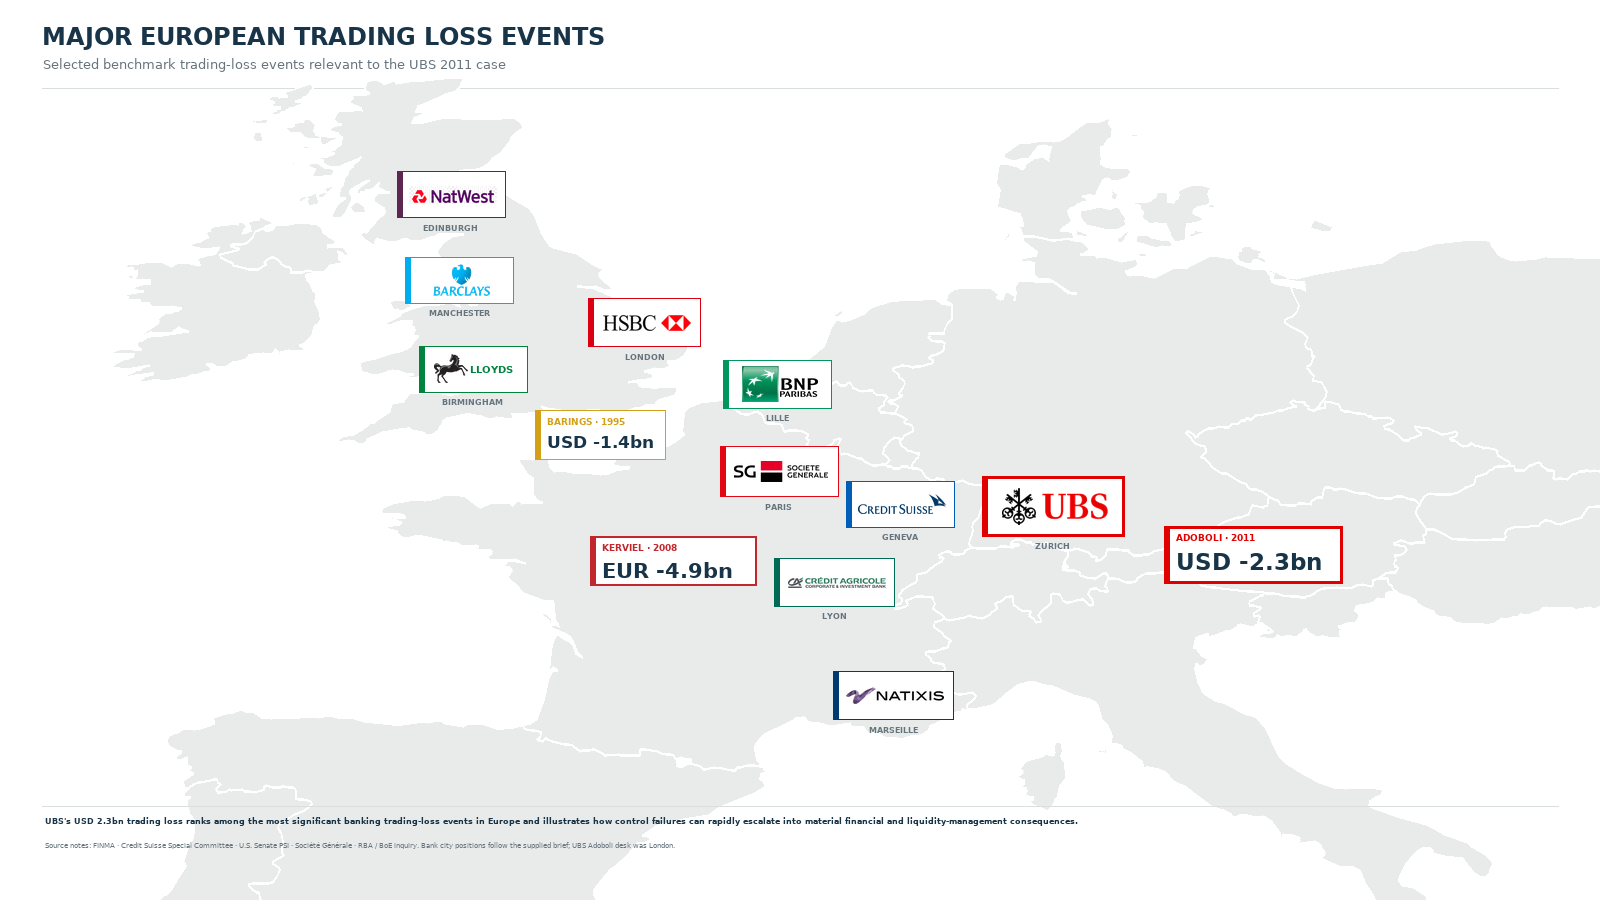
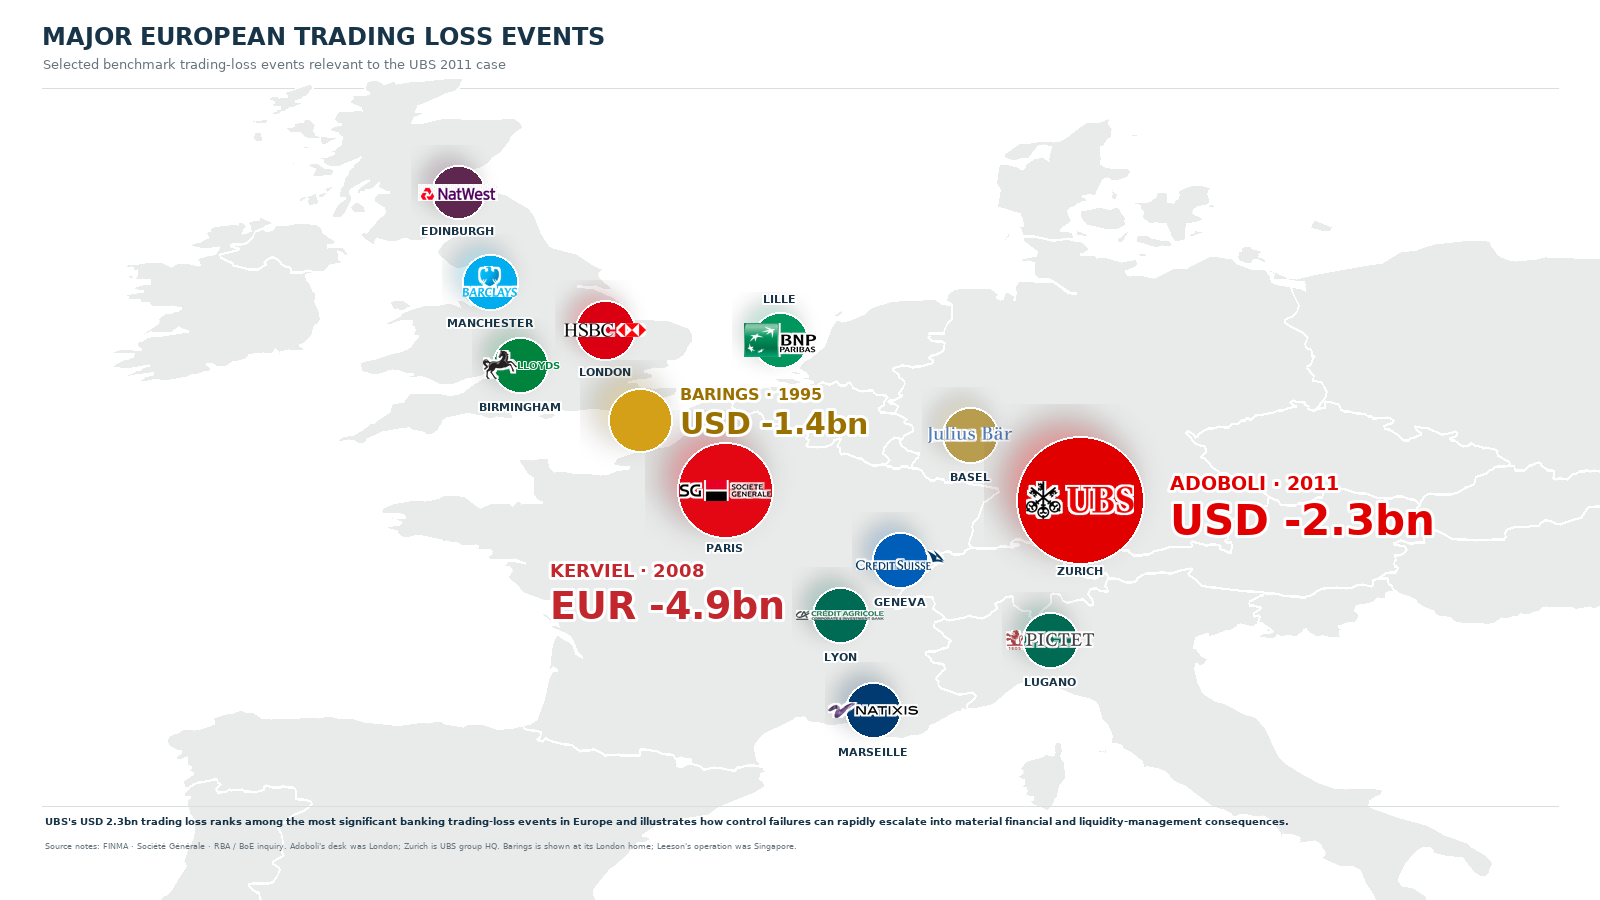
Refresh trading loss infographic with 12 bank markers

diff --git a/documents/build_ubs_event_context_map.py b/documents/build_ubs_event_context_map.py
@@ -1,6 +1,6 @@
 from pathlib import Path
 import json
-from PIL import Image, ImageDraw, ImageFont
+from PIL import Image, ImageDraw, ImageFont, ImageFilter, ImageColor
 
 ROOT = Path(__file__).resolve().parent
 ASSETS = ROOT / 'assets'
@@ -25,8 +25,10 @@ def font(size, bold=False, serif=False):
         _fonts[key] = ImageFont.truetype(path, size)
     return _fonts[key]
 
-def text(draw, xy, value, size, color=INK, bold=False, anchor=None, serif=False):
-    draw.text(xy, value, font=font(size, bold, serif), fill=color, anchor=anchor)
+def text(draw, xy, value, size, color=INK, bold=False, anchor=None, serif=False,
+         stroke_width=0, stroke_fill=PAPER):
+    draw.text(xy, value, font=font(size, bold, serif), fill=color, anchor=anchor,
+              stroke_width=stroke_width, stroke_fill=stroke_fill)
 
 def load_logo(filename, remove_light_bg=False):
     image = Image.open(ASSETS / filename).convert('RGBA')
@@ -44,20 +46,28 @@ def fit(image, max_width, max_height):
     scale = min(max_width / image.width, max_height / image.height)
     return image.resize((max(1, round(image.width * scale)), max(1, round(image.height * scale))), Image.Resampling.LANCZOS)
 
-def paste_logo(canvas, logo, center, max_size):
+def paste_logo_floating(canvas, logo, center, max_size, halo=True):
+    """Transparent wordmark directly over its city marker; white edge is only a logo keyline."""
     mark = fit(logo, *max_size)
-    canvas.alpha_composite(mark, (round(center[0] - mark.width / 2), round(center[1] - mark.height / 2)))
+    x = round(center[0] - mark.width / 2)
+    y = round(center[1] - mark.height / 2)
+    if halo:
+        alpha = mark.getchannel('A').filter(ImageFilter.MaxFilter(5))
+        keyline = Image.new('RGBA', mark.size, (255, 255, 255, 0))
+        keyline.putalpha(alpha)
+        canvas.alpha_composite(keyline, (x, y))
+    canvas.alpha_composite(mark, (x, y))
     return mark.size
 
 im = Image.new('RGBA', (W, H), PAPER)
 d = ImageDraw.Draw(im)
 
-# Compact title area, leaving the map as the main visual.
+# Compact title area; the European map and city marks remain dominant.
 text(d, (42, 22), 'MAJOR EUROPEAN TRADING LOSS EVENTS', 24, INK, bold=True)
 text(d, (43, 56), 'Selected benchmark trading-loss events relevant to the UBS 2011 case', 13, MUTED)
 d.line((42, 88, 1558, 88), fill=GRID, width=1)
 
-# Light-grey Europe base, with unobtrusive national borders.
+# Light-grey Europe base, with discreet national borders.
 mx, my, mw, mh = 35, 105, 1530, 680
 lon0, lon1 = -12.0, 20.0
 lat0, lat1 = 42.0, 58.0
@@ -85,7 +95,7 @@ def draw_geometry(geometry):
 for feature in geo['features']:
     draw_geometry(feature['geometry'])
 
-# Ten bank identities, each used once and assigned to the requested city.
+# Bank logos, one per requested city (12 total).
 logos = {
     'HSBC': load_logo('hsbc-logo.png', True),
     'BARCLAYS': load_logo('barclays-logo.jpg', True),
@@ -97,63 +107,77 @@ logos = {
     'NATIXIS': load_logo('natixis-logo.png'),
     'UBS': load_logo('ubs-logo.png', True),
     'CS': load_logo('credit-suisse-logo.png'),
+    'JULIUS': load_logo('julius-baer-logo.png'),
+    'PICTET': load_logo('pictet-logo.png'),
 }
 
-# Small square markers and clean logo plaques echo a football map, without circular pins.
-def city_logo(key, city, lon, lat, color, offset, box_size=(116, 48), logo_size=(96, 30), halo=False, lloyds=False):
-    global d
-    x0, y0 = xy(lon, lat)
-    cx, cy = x0 + offset[0], y0 + offset[1]
-    w, h = box_size
-    outline = '#E00000' if halo else color
-    width = 3 if halo else 1
-    d.rectangle((cx - w/2, cy - h/2, cx + w/2, cy + h/2), fill=PAPER, outline=outline, width=width)
-    d.rectangle((cx - w/2, cy - h/2, cx - w/2 + 5, cy + h/2), fill=color)
-    if lloyds:
-        paste_logo(im, logos[key], (cx - 22, cy - 1), (34, 34))
-        d = ImageDraw.Draw(im)
-        text(d, (cx + 19, cy), 'LLOYDS', 10, color, bold=True, anchor='mm')
-    else:
-        paste_logo(im, logos[key], (cx + 2, cy), logo_size)
+# Draw a soft coloured glow, then the solid city circle. No white logo cards or rectangular badges.
+def city_circle(center, radius, color, glow=8, strength=70):
+    rgb = ImageColor.getrgb(color)
+    pad = radius + glow * 2
+    size = pad * 2
+    halo = Image.new('RGBA', (size, size), (0, 0, 0, 0))
+    hd = ImageDraw.Draw(halo)
+    hd.ellipse((glow, glow, glow + radius * 2, glow + radius * 2), fill=(*rgb, strength))
+    halo = halo.filter(ImageFilter.GaussianBlur(glow))
+    im.alpha_composite(halo, (round(center[0] - pad), round(center[1] - pad)))
     d = ImageDraw.Draw(im)
-    text(d, (cx, cy + h/2 + 5), city.upper(), 8, MUTED, bold=True, anchor='ma')
-    return (cx, cy, w, h)
+    d.ellipse((center[0] - radius, center[1] - radius,
+               center[0] + radius, center[1] + radius), fill=color, outline=PAPER, width=2)
+    return d
 
-# United Kingdom. City placements are deliberately staggered for clear spacing.
-city_logo('NATWEST', 'Edinburgh', -3.1883, 55.9533, '#5E2750', (-5, 3), (108, 46), (88, 25))
-city_logo('BARCLAYS', 'Manchester', -2.2426, 53.4808, '#00AEEF', (-42, -17), (108, 46), (68, 32))
-city_logo('LLOYDS', 'Birmingham', -1.8904, 52.4862, '#00843D', (-45, 30), (108, 46), lloyds=True)
-city_logo('HSBC', 'London', -0.1276, 51.5072, '#DB0011', (42, -58), (112, 48), (88, 27))
+def city_mark(key, city, center, color, radius=27, logo_size=(78, 28), city_y=None, lloyds=False):
+    global d
+    d = city_circle(center, radius, color, glow=10 if radius < 45 else 16,
+                    strength=65 if radius < 45 else 95)
+    if lloyds:
+        paste_logo_floating(im, logos[key], (center[0] - 20, center[1] - 1), (34, 31))
+        d = ImageDraw.Draw(im)
+        text(d, (center[0] + 19, center[1]), 'LLOYDS', 10, '#00843D', bold=True,
+             anchor='mm', stroke_width=1)
+    else:
+        paste_logo_floating(im, logos[key], center, logo_size)
+    d = ImageDraw.Draw(im)
+    label_y = city_y if city_y is not None else center[1] + radius + 13
+    text(d, (center[0], label_y), city.upper(), 11, INK, bold=True, anchor='mm', stroke_width=2)
 
-# France. Société Générale and Crédit Agricole are emphasized by their marker colours.
-city_logo('BNP', 'Lille', 3.0573, 50.6292, '#00965E', (23, -34), (108, 48), (78, 36))
-city_logo('SG', 'Paris', 2.3522, 48.8566, '#E30613', (58, -22), (118, 50), (94, 34))
-city_logo('CA', 'Lyon', 4.8357, 45.7640, '#006B54', (-5, -43), (120, 48), (98, 28))
-city_logo('NATIXIS', 'Marseille', 5.3698, 43.2965, '#003A70', (28, -34), (120, 48), (98, 27))
+# UK — city markers use the requested bank colours.
+city_mark('NATWEST', 'Edinburgh', (458, 192), '#5E2750', 27, (80, 24), 231)
+city_mark('BARCLAYS', 'Manchester', (490, 282), '#00AEEF', 28, (68, 31), 323)
+city_mark('LLOYDS', 'Birmingham', (520, 365), '#00843D', 28, (78, 30), 407, lloyds=True)
+city_mark('HSBC', 'London', (605, 330), '#DB0011', 30, (82, 25), 372)
 
-# Switzerland. UBS receives the largest red halo; Credit Suisse remains a single Geneva logo.
-city_logo('CS', 'Geneva', 6.1432, 46.2044, '#005EB8', (-2, -102), (108, 46), (88, 25))
-city_logo('UBS', 'Zurich', 8.5417, 47.3769, '#E00000', (36, -50), (142, 60), (106, 39), halo=True)
+# France — keep the four city/logo pairs distinct and legible.
+city_mark('BNP', 'Lille', (780, 340), '#00965E', 28, (74, 34), 299)
+city_mark('SG', 'Paris', (725, 490), '#E30613', 48, (91, 32), 548)
+city_mark('CA', 'Lyon', (840, 615), '#006B54', 28, (88, 24), 657)
+city_mark('NATIXIS', 'Marseille', (873, 710), '#003A70', 28, (90, 25), 752)
 
-# Only the three major incident figures are shown. Text labels, not extra bank logos.
-def event_label(x, y, width, label, amount, color, amount_size=19, border=1):
-    height = 49 if amount_size < 22 else 57
-    d.rectangle((x, y, x + width, y + height), fill=PAPER, outline=color, width=border)
-    d.rectangle((x, y, x + 5, y + height), fill=color)
-    text(d, (x + 12, y + 6), label, 9, color, bold=True)
-    text(d, (x + 12, y + 22), amount, amount_size, INK, bold=True)
+# Switzerland — separated markers for four banking centres; UBS is the largest.
+city_mark('CS', 'Geneva', (900, 560), '#005EB8', 28, (88, 25), 602)
+city_mark('JULIUS', 'Basel', (970, 435), '#B89D4F', 28, (84, 25), 477)
+city_mark('UBS', 'Zurich', (1080, 500), '#E00000', 64, (108, 40), 571)
+city_mark('PICTET', 'Lugano', (1050, 640), '#006A52', 28, (88, 25), 682)
 
-# London: event tag sits below/right of the HSBC city logo; Barings itself has no second logo.
-event_label(535, 410, 130, 'BARINGS · 1995', 'USD -1.4bn', '#D4A017', 17)
-# Paris: the Kerviel event has the second-largest visual callout.
-event_label(590, 536, 166, 'KERVIEL · 2008', 'EUR -4.9bn', '#C1272D', 21, 2)
-# Zurich: largest incident highlight, beside UBS's red-halo logo.
-event_label(1164, 526, 178, 'ADOBOLI · 2011', 'USD -2.3bn', '#E00000', 23, 3)
+# Event highlights: text floats next to the city halo, without containers.
+def event_text(x, y, label, amount, color, label_size, amount_size):
+    global d
+    d = ImageDraw.Draw(im)
+    text(d, (x, y), label, label_size, color, bold=True, stroke_width=3)
+    text(d, (x, y + label_size + 5), amount, amount_size, color, bold=True, stroke_width=3)
 
-# Minimal footer; the requested takeaway is retained in small type.
+# Barings 1995 — third in the visual hierarchy, gold marker and type.
+city_circle((640, 420), 32, '#D4A017', glow=14, strength=85)
+event_text(680, 385, 'BARINGS · 1995', 'USD -1.4bn', '#9A7000', 16, 30)
+# Kerviel 2008 — second-largest red event emphasis beside the Paris / SG marker.
+event_text(550, 560, 'KERVIEL · 2008', 'EUR -4.9bn', '#C1272D', 18, 38)
+# Adoboli 2011 — largest callout, with the requested UBS-red halo at Zurich.
+event_text(1170, 472, 'ADOBOLI · 2011', 'USD -2.3bn', '#E00000', 19, 42)
+
+# Minimal footnote retains the factual distinction between Zurich HQ and the London desk.
 d.line((42, 806, 1558, 806), fill=GRID, width=1)
-text(d, (45, 816), "UBS's USD 2.3bn trading loss ranks among the most significant banking trading-loss events in Europe and illustrates how control failures can rapidly escalate into material financial and liquidity-management consequences.", 8, INK, bold=True)
-text(d, (45, 841), 'Source notes: FINMA · Credit Suisse Special Committee · U.S. Senate PSI · Société Générale · RBA / BoE inquiry. Bank city positions follow the supplied brief; UBS Adoboli desk was London.', 7, MUTED)
+text(d, (45, 815), "UBS's USD 2.3bn trading loss ranks among the most significant banking trading-loss events in Europe and illustrates how control failures can rapidly escalate into material financial and liquidity-management consequences.", 10, INK, bold=True)
+text(d, (45, 841), "Source notes: FINMA · Société Générale · RBA / BoE inquiry. Adoboli's desk was London; Zurich is UBS group HQ. Barings is shown at its London home; Leeson's operation was Singapore.", 8, MUTED)
 
 im.convert('RGB').save(OUT)
 print(OUT)

diff --git a/documents/ubs-event-context-map-sources.md b/documents/ubs-event-context-map-sources.md
@@ -1,53 +1,66 @@
 # Major European Trading Loss Events — sources and methodology
 
-**Slide:** `ubs-event-context-map.png`  
-**Generator:** `build_ubs_event_context_map.py`  
-**Map geometry:** Natural Earth 1:50m country outlines (`assets/natural-earth-50m-western-europe-context.geojson`, public domain). City positions follow the supplied brief.
+**Slide:** `ubs-event-context-map.png`
+**Generator:** `build_ubs_event_context_map.py`
+**Map geometry:** Natural Earth 1:50m Western Europe country outlines (`assets/natural-earth-50m-western-europe-context.geojson`, public domain).
 
-## What the slide says
+## Slide copy
 
-The map follows the supplied football-transfer reference: a light-grey Europe base, ten bank logos placed once at the specified cities, and spacious city labels. No proportional circles are used. Numeric loss callouts are limited to the three events requested—Barings, Kerviel and Adoboli/UBS—while the other seven banks are shown as logo-only context.
+- **Title:** `MAJOR EUROPEAN TRADING LOSS EVENTS`
+- **Subtitle:** `Selected benchmark trading-loss events relevant to the UBS 2011 case`
+- **Conclusion:** `UBS's USD 2.3bn trading loss ranks among the most significant banking trading-loss events in Europe and illustrates how control failures can rapidly escalate into material financial and liquidity-management consequences.`
 
-The examples are all major bank trading / positions-unwind loss events, but their causes and accounting bases are not identical: UBS, Société Générale and Barings involved unauthorized or concealed trading; JPMorgan's London Whale was a synthetic-credit portfolio loss; Credit Suisse's Archegos loss was a prime-brokerage counterparty exposure. The slide does not imply those causal mechanisms are equivalent.
+## Event values and factual context
 
-## Event values and primary sources
-
-1. **UBS, 2011 — approximately USD 2.3bn.** FINMA, *Investigation into the Events surrounding Trading Losses of USD 2.3 billion incurred by the Investment Banking Division of UBS AG in London*, summary report, 21 November 2012. FINMA identifies unauthorized trading on the London ETF desk, serious risk-management and control failures, and supervisory measures including capital restrictions and an acquisition ban for the Investment Bank. UBS described the business as ETF / Delta One; the map places UBS in Switzerland as its Zurich headquarters and notes the London desk in the footer.<br>
-   https://www.finma.ch/en/~/media/finma/dokumente/dokumentencenter/8news/medienmitteilungen/2012/11/20121121-ubs-summary-report.pdf?sc_lang=en&hash=D26DD4BBF243411F07C72BCA738FF40A  
+1. **Adoboli / UBS, 2011 — USD -2.3bn.** FINMA's investigation describes losses of USD 2.3 billion in UBS Investment Banking in London and serious failures in risk management and controls. The trading desk was in London; Zurich is the UBS group headquarters. The map places the UBS logo at Zurich as requested and states the distinction in the footnote; the Adoboli event callout is visually associated with the UBS marker, not intended to relocate the trading desk to Zurich.
+   FINMA, *Investigation into the Events surrounding Trading Losses of USD 2.3 billion incurred by the Investment Banking Division of UBS AG in London*, summary report, 21 November 2012: https://www.finma.ch/en/~/media/finma/dokumente/dokumentencenter/8news/medienmitteilungen/2012/11/20121121-ubs-summary-report.pdf?sc_lang=en&hash=D26DD4BBF243411F07C72BCA738FF40A
    FINMA press summary: https://www.finma.ch/en/news/2012/11/mm-ubs-london-20121126
-2. **Credit Suisse, 2021 — approximately USD 5.5bn.** Credit Suisse Group Special Committee, *Report on Archegos Capital Management*, filed as SEC Exhibit 99.2, 29 July 2021. The report describes the loss following Archegos's default and the resulting unwind. The map places the bank in Switzerland to show its Zurich headquarters, not the location of the underlying positions.<br>
-   https://www.sec.gov/Archives/edgar/data/1159510/000137036821000064/a210729-ex992.htm
-3. **JPMorgan, 2012 — at least USD 6.2bn.** U.S. Senate Permanent Subcommittee on Investigations, *JPMorgan Chase Whale Trades: A Case History of Derivatives Risks and Abuses*, 15 March 2013. The losses arose from the Chief Investment Office's Synthetic Credit Portfolio, with trading in JPMorgan's London office.  
-   https://www.hsgac.senate.gov/subcommittees/investigations/rep/senate-investigations-subcommittee-holds-hearing-and-releases-report-on-jpmorgan-chase-whale-trades/
-4. **Société Générale, 2008 — EUR 4.9bn net loss.** Société Générale, *Kerviel case*, including its account of the loss and the January 2008 unwind. The bank explains the EUR 4.9bn net impact as the EUR 6.3bn unwind loss less EUR 1.4bn of concealed gains on unauthorized positions.  
-   https://www.societegenerale.com/en/news/newsroom/kerviel-case
-5. **Barings, 1995 — approximately USD 1.4bn equivalent.** The UK Board of Banking Supervision inquiry is summarized by the Reserve Bank of Australia. The inquiry records cumulative losses of GBP 827m by 27 February 1995; including close-out costs, total losses on the unauthorized trading were GBP 927m. USD 1.4bn is retained as the approximate equivalent requested for the slide, not as a precise converted accounting figure. Leeson's trading operation was in Singapore; the map places Barings in the UK to show its institutional home, not the trade location.<br>
-   https://www.rba.gov.au/publications/bulletin/1995/nov/1.html  
-   An accessible USD-equivalent summary: https://www.investopedia.com/ask/answers/08/nick-leeson-barings-bank.asp
-## Identity marks
+2. **Kerviel / Société Générale, 2008 — EUR -4.9bn.** Société Générale describes the EUR 4.9bn net impact of the January 2008 unwind, after offsetting EUR 1.4bn in concealed gains against EUR 6.3bn in losses on unauthorized positions. The slide displays the requested net-loss figure.
+   Société Générale, *Kerviel case*: https://www.societegenerale.com/en/news/newsroom/kerviel-case
+3. **Barings, 1995 — USD -1.4bn equivalent (approximate).** The UK Board of Banking Supervision inquiry, summarized by the Reserve Bank of Australia, records cumulative losses of GBP 827m by 27 February 1995 and GBP 927m including close-out costs. The slide retains USD 1.4bn as the requested approximate equivalent, not as a precise converted accounting figure. Barings is represented at its London institutional home; Nick Leeson's unauthorized trading operation was in Singapore.
+   Reserve Bank of Australia, *The Barings collapse*: https://www.rba.gov.au/publications/bulletin/1995/nov/1.html
+   Accessible USD-equivalent summary: https://www.investopedia.com/ask/answers/08/nick-leeson-barings-bank.asp
 
-Ten bank logos appear once, directly on the map at the user-specified cities; Barings is an event text marker, not a second London bank logo. UBS is the repository's existing mark. Credit Suisse and Société Générale assets are sourced from Wikimedia Commons; BNP Paribas, Crédit Agricole CIB, Natixis, HSBC, Barclays, Lloyds and NatWest wordmarks are retained for identification. Brand marks remain their owners' trademarks.
+The minus signs on the slide explicitly indicate losses. The amounts are nominal headline impacts from different years and are not inflation-adjusted; causes and accounting bases are not identical.
 
-- Credit Suisse logo: https://commons.wikimedia.org/wiki/File:Credit_Suisse_Logo.svg
-- Société Générale logo: https://commons.wikimedia.org/wiki/File:Logo-SG-Soci%C3%A9t%C3%A9-G%C3%A9n%C3%A9rale.svg
-- JPMorgan Chase wordmark: https://seekvectors.com/post/jpmorgan-chase-logo-vector
-- Barings' historical crest context: https://content.time.com/time/specials/packages/article/0,28804,1937349_1937350_1937488,00.html
-- BNP Paribas logo: https://www.pngplay.com/image/59723
-- Crédit Agricole CIB logo: https://seeklogo.com/free-vector-logos/credit-agricole
-- Natixis logo: https://seeklogo.com/free-vector-logos/natixis
-- HSBC logo: https://www.pngitem.com/middle/oJTbwo_hsbc-bank-logo-png-transparent-png/
-- Barclays logo: https://1000logos.net/barclays-logo/
-- Lloyds Banking Group logo: https://companieslogo.com/lloyds-banking-group/logo/
-- NatWest logo: https://www.vhv.rs/viewpic/TioTmix_natwest-bank-logo-transparent-background-image-natwest-bank/
+## Bank identities and map treatment
 
-## Map fills and annotations
+The infographic shows the 12 requested logo-and-city pairings, once each:
 
-- The base map is light grey and uses no filled country regions. City logo tiles use the requested brand colours: HSBC red in London, Barclays sky blue in Manchester, Lloyds green in Birmingham, NatWest purple in Edinburgh; Société Générale red in Paris, BNP green in Lille, Crédit Agricole green in Lyon, Natixis navy in Marseille; UBS red in Zurich and Credit Suisse blue in Geneva.
-- Only the three benchmark events carry numeric callouts: Barings (1995, USD -1.4bn), Kerviel (2008, EUR -4.9bn), and Adoboli/UBS (2011, USD -2.3bn). The UBS logo has the largest red rectangular halo, following the requested hierarchy; the amount is not encoded by marker size.
-- The Barings USD equivalent is approximate. The inquiry reports cumulative GBP 827m losses by 27 February 1995 and GBP 927m including close-out costs. The visible negative sign indicates a loss, not a separate conversion method.
-- City placements follow the supplied brief. For factual context, Adoboli's unauthorized trading took place on UBS's London desk; Zurich is UBS's headquarters. Barings is shown as the London event marker, while Leeson's trading operation was in Singapore.
-- No displayed loss is inflation-adjusted; the infographic compares nominal headline impacts across years.
+| City | Bank | Marker colour |
+|---|---|---|
+| London | HSBC | `#DB0011` |
+| Manchester | Barclays | `#00AEEF` |
+| Birmingham | Lloyds | `#00843D` |
+| Edinburgh | NatWest | `#5E2750` |
+| Lille | BNP Paribas | `#00965E` |
+| Paris | Société Générale | `#E30613` |
+| Lyon | Crédit Agricole | `#006B54` |
+| Marseille | Natixis | `#003A70` |
+| Zurich | UBS | `#E00000` |
+| Geneva | Credit Suisse | `#005EB8` |
+| Basel | Julius Baer | `#B89D4F` |
+| Lugano | Pictet | `#006A52` |
 
-## Executive takeaway
+The European land base is light grey with understated borders. Each bank mark floats directly over a coloured circular city marker with a restrained halo; the map uses no white rectangular logo cards. The three event highlights follow the requested hierarchy: largest red UBS/Adoboli callout, second red Kerviel callout, and third gold Barings callout. Circle sizes are visual emphasis only, not a quantitative encoding of the loss.
 
-The requested conclusion is reproduced verbatim on the slide: “UBS's USD 2.3bn trading loss ranks among the most significant banking trading-loss events in Europe and illustrates how control failures can rapidly escalate into material financial and liquidity-management consequences.” This is framed as a lesson about control and consequence, not as a claim that UBS suffered a liquidity crisis.
+## Logo asset references
+
+Logo image files used by the generator are in `assets/`. Logos are trademarks of their respective owners; the listed pages are asset references, not endorsements.
+
+- HSBC: https://www.pngitem.com/middle/oJTbwo_hsbc-bank-logo-png-transparent-png/
+- Barclays: https://1000logos.net/barclays-logo/
+- Lloyds Banking Group: https://companieslogo.com/lloyds-banking-group/logo/
+- NatWest: https://www.vhv.rs/viewpic/TioTmix_natwest-bank-logo-transparent-background-image-natwest-bank/
+- BNP Paribas: https://www.pngplay.com/image/59723
+- Société Générale: https://commons.wikimedia.org/wiki/File:Logo-SG-Soci%C3%A9t%C3%A9-G%C3%A9n%C3%A9rale.svg
+- Crédit Agricole CIB: https://seeklogo.com/free-vector-logos/credit-agricole
+- Natixis: https://seeklogo.com/free-vector-logos/natixis
+- UBS: existing repository asset, `assets/ubs-logo.png`
+- Credit Suisse: https://commons.wikimedia.org/wiki/File:Credit_Suisse_Logo.svg
+- Julius Baer: https://freebiesupply.com/logos/julius-baer-logo/
+- Pictet: https://www.abps.ch/en/members/banque-pictet-cie-sa/
+
+## Rebuild and conclusion
+
+From the repository root, run `python documents/build_ubs_event_context_map.py` after installing Pillow. The generated slide retains the conclusion quoted above. It frames the UBS case as a lesson about control failures and consequences, not as a claim that UBS suffered a liquidity crisis.
